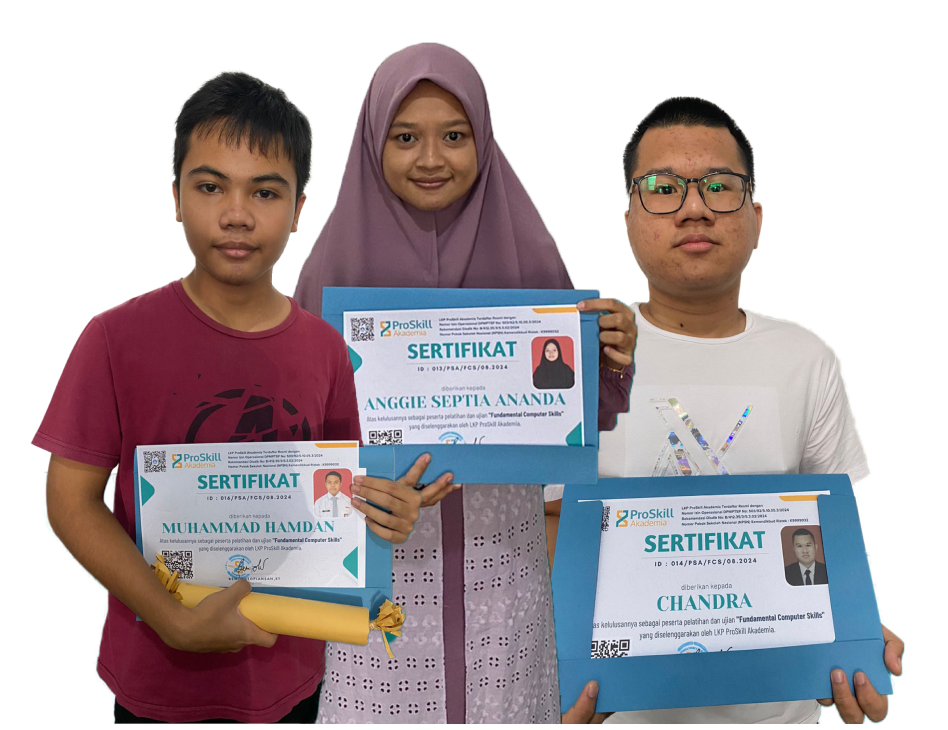
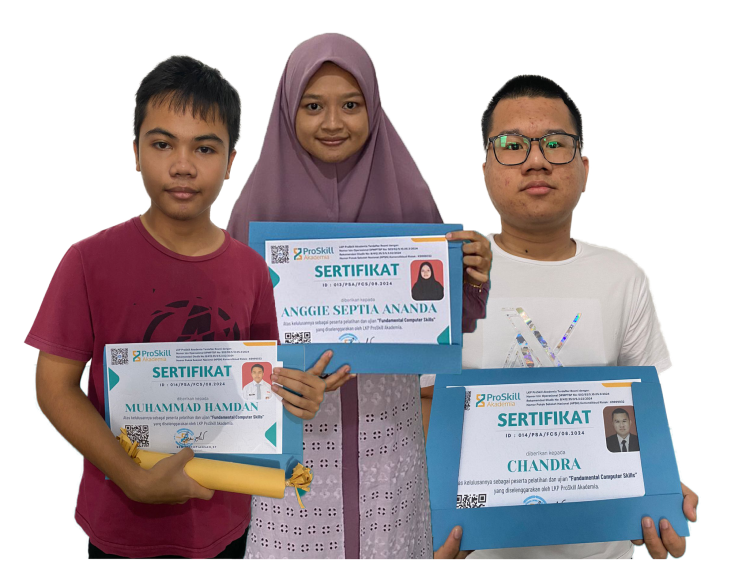
up

diff --git a/resources/views/home/index.blade.php b/resources/views/home/index.blade.php
@@ -40,7 +40,7 @@
                     </div>
                     <div class="col-xl-7 col-lg-6 col-md-8">
                         <div class="banner__images-two tg-svg">
-                            <img src="{{ asset('public/assets/img/banner/1.png') }}" alt="img" class="main-img"
+                            <img src="{{ asset('public/assets/img/banner/2.png') }}" alt="img" class="main-img"
                                 loading="lazy">
                             <div class="shape big-shape" data-aos="fade-up" data-aos-delay="600">
                                 <img src="{{ asset('public/assets/img/banner/h2_banner_shape01.svg') }}" alt="shape"
